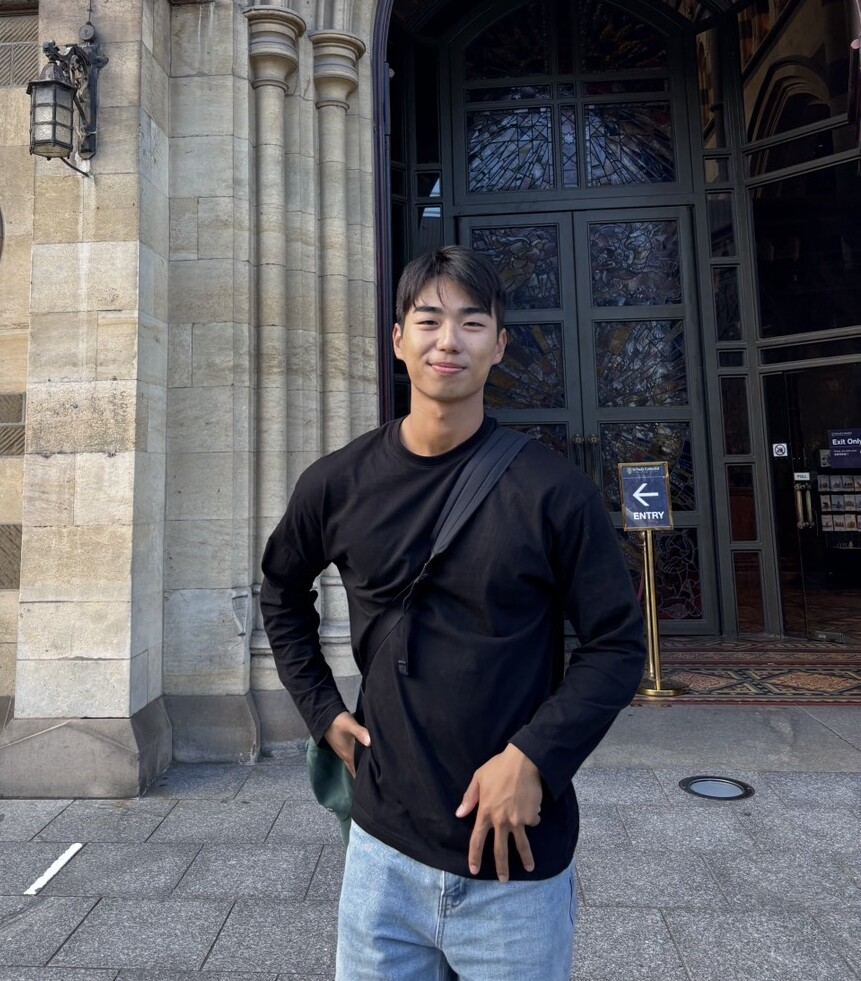
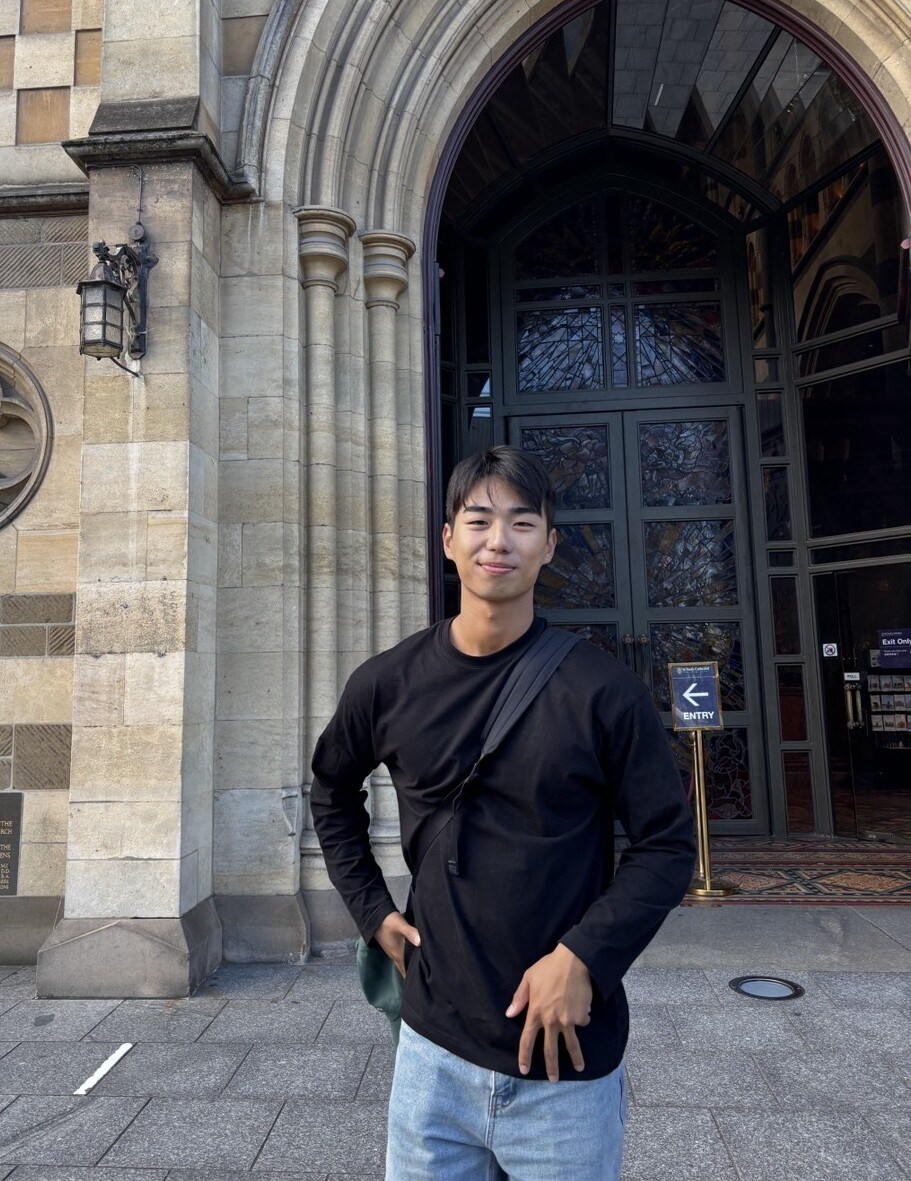
프로필 이미지 크롭 일부 복구

diff --git a/styles.css b/styles.css
@@ -84,7 +84,7 @@ h3 { font-size: 1rem; }
 .about-grid { display: grid; grid-template-columns: minmax(220px, .8fr) 1.5fr; gap: clamp(38px, 8vw, 100px); align-items: start; }
 .about-name { display: flex; flex-direction: column; align-items: flex-start; min-width: 0; }
 .about-name h3 { margin: 0; font-size: clamp(1.8rem, 4vw, 2.6rem); letter-spacing: -.045em; }
-.profile-photo { display: block; width: min(216px, 100%); aspect-ratio: 1; margin-top: 28px; flex: none; border-radius: 50%; background-image: url('assets/images/profile-cropped.jpg?v=20260808-2'); background-position: 59% 37%; background-repeat: no-repeat; background-size: 205%; box-shadow: 0 12px 28px rgba(16,24,40,.12); }
+.profile-photo { display: block; width: min(216px, 100%); aspect-ratio: 1; margin-top: 28px; flex: none; border-radius: 50%; background-image: url('assets/images/profile-cropped.jpg?v=20260808-3'); background-position: 59% 37%; background-repeat: no-repeat; background-size: 205%; box-shadow: 0 12px 28px rgba(16,24,40,.12); }
 .about-facts { display: grid; gap: 20px; margin: 0; }
 .about-facts > div { display: grid; grid-template-columns: 110px 1fr; gap: 22px; padding: 24px; border: 0; border-radius: 12px; background: var(--soft); }
 .about-facts dt { color: var(--muted); font-size: .7rem; font-weight: 700; line-height: 1.6; letter-spacing: .06em; text-transform: uppercase; }

diff --git a/projects/falcon.html b/projects/falcon.html
@@ -3,7 +3,7 @@
 <head>
   <meta charset="utf-8"><meta name="viewport" content="width=device-width, initial-scale=1">
   <meta name="description" content="FALCON 활주로 안전 관제 시스템 프로젝트 케이스 스터디"><title>FALCON — Jongmyung Kim</title>
-  <link rel="preconnect" href="https://fonts.googleapis.com"><link rel="preconnect" href="https://fonts.gstatic.com" crossorigin><link href="https://fonts.googleapis.com/css2?family=Noto+Sans+KR:wght@400;500;600;700;800&amp;display=swap" rel="stylesheet"><link rel="stylesheet" href="../styles.css?v=20260808-9">
+  <link rel="preconnect" href="https://fonts.googleapis.com"><link rel="preconnect" href="https://fonts.gstatic.com" crossorigin><link href="https://fonts.googleapis.com/css2?family=Noto+Sans+KR:wght@400;500;600;700;800&amp;display=swap" rel="stylesheet"><link rel="stylesheet" href="../styles.css?v=20260808-10">
 </head>
 <body>
   <div class="reading-progress" aria-hidden="true"></div>

diff --git a/projects/roomie.html b/projects/roomie.html
@@ -3,7 +3,7 @@
 <head>
   <meta charset="utf-8"><meta name="viewport" content="width=device-width, initial-scale=1">
   <meta name="description" content="ROOMIE 호텔 룸서비스 로봇 프로젝트 케이스 스터디"><title>ROOMIE — Jongmyung Kim</title>
-  <link rel="preconnect" href="https://fonts.googleapis.com"><link rel="preconnect" href="https://fonts.gstatic.com" crossorigin><link href="https://fonts.googleapis.com/css2?family=Noto+Sans+KR:wght@400;500;600;700;800&amp;display=swap" rel="stylesheet"><link rel="stylesheet" href="../styles.css?v=20260808-9">
+  <link rel="preconnect" href="https://fonts.googleapis.com"><link rel="preconnect" href="https://fonts.gstatic.com" crossorigin><link href="https://fonts.googleapis.com/css2?family=Noto+Sans+KR:wght@400;500;600;700;800&amp;display=swap" rel="stylesheet"><link rel="stylesheet" href="../styles.css?v=20260808-10">
 </head>
 <body>
   <div class="reading-progress" aria-hidden="true"></div>

diff --git a/projects/javis.html b/projects/javis.html
@@ -6,7 +6,7 @@
   <title>JAVIS — Jongmyung Kim</title>
   <link rel="preconnect" href="https://fonts.googleapis.com"><link rel="preconnect" href="https://fonts.gstatic.com" crossorigin>
   <link href="https://fonts.googleapis.com/css2?family=Noto+Sans+KR:wght@400;500;600;700;800&amp;display=swap" rel="stylesheet">
-  <link rel="stylesheet" href="../styles.css?v=20260808-9">
+  <link rel="stylesheet" href="../styles.css?v=20260808-10">
 </head>
 <body>
   <div class="reading-progress" aria-hidden="true"></div>

diff --git a/index.html b/index.html
@@ -8,7 +8,7 @@
   <link rel="preconnect" href="https://fonts.googleapis.com">
   <link rel="preconnect" href="https://fonts.gstatic.com" crossorigin>
   <link href="https://fonts.googleapis.com/css2?family=Noto+Sans+KR:wght@400;500;600;700;800&amp;display=swap" rel="stylesheet">
-  <link rel="stylesheet" href="styles.css?v=20260808-9">
+  <link rel="stylesheet" href="styles.css?v=20260808-10">
 </head>
 <body>
   <header class="site-header">
